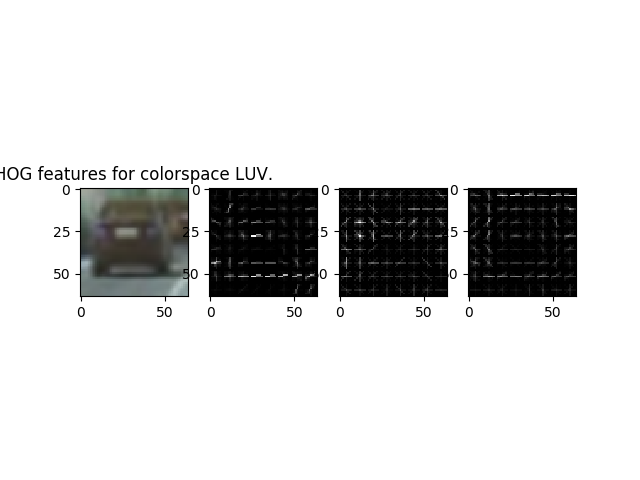
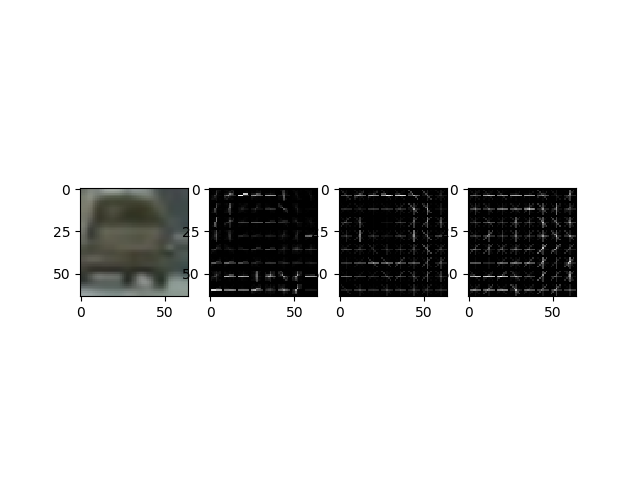
Add README.

diff --git a/pipeline.py b/pipeline.py
@@ -9,8 +9,8 @@ from train import extract_features
 from moviepy.editor import VideoFileClip
 from scipy.ndimage.measurements import label
 
-HIT_BUFFER_LENGTH = 25
-MIN_HITS = 20
+HIT_BUFFER_LENGTH = 20
+MIN_HITS = 15
 CONFIDENCE_THRESHOLD = 0.80
 
 def slide_window(img, width, height, x_overlap = 0.5, y_overlap = 0.5):
@@ -33,6 +33,7 @@ class Pipeline:
     def __init__(self, model):
         with open(model, 'rb') as file:
             self.classifier, self.scaler, self.colorspace = pickle.load(file)
+        self.frame_counter = 0
 
     def predict(self, image):
         resized = cv2.resize(image, train.TRAINING_IMAGE_SIZE)
@@ -41,7 +42,7 @@ class Pipeline:
 
         return self.classifier.predict_proba(features)[0][1]
 
-    def process_image(self, image, visualize=False, ):
+    def process_image(self, image, visualize=False):
         # Only search bottom half of image
         img = image[image.shape[0]//2:,image.shape[1]//2:,...]
 
@@ -66,8 +67,12 @@ class Pipeline:
 
         return hits, image
 
-    # Implement heat map meathod from the lectures.
+    # Implement heat map method from the lectures.
     def draw_bounding_boxes(self, image):
+
+        if self.frame_counter >= 1000 and self.frame_counter <= 1005:
+            cv2.imwrite('./output_images/original{}.jpg'.format(self.frame_counter), cv2.cvtColor(image, cv2.COLOR_BGR2RGB))
+
         heatmap = np.zeros_like(image[:,:,0])
 
         for frame in self.hit_buffer:
@@ -75,6 +80,9 @@ class Pipeline:
                 heatmap[hit[0][1]:hit[1][1], hit[0][0]:hit[1][0]] += 1
 
         heatmap[heatmap < MIN_HITS] = 0
+
+        if self.frame_counter >= 1000 and self.frame_counter <= 1005:
+            cv2.imwrite('./output_images/heatmap{}.jpg'.format(self.frame_counter), heatmap)
 
         labeled, num_labels = label(heatmap)
         windows = []
@@ -90,6 +98,9 @@ class Pipeline:
 
             image = cv2.rectangle(image, top_left, bottom_right, (0, 0, 255), 6)
 
+        if self.frame_counter >= 1000 and self.frame_counter <= 1005:
+            cv2.imwrite('./output_images/final{}.jpg'.format(self.frame_counter), cv2.cvtColor(image, cv2.COLOR_BGR2RGB))
+
         return image
 
     def process_video_image(self, image):
@@ -100,6 +111,8 @@ class Pipeline:
         self.hit_buffer.append(hits)
         if len(self.hit_buffer) > HIT_BUFFER_LENGTH:
             self.hit_buffer.pop(0)
+
+        self.frame_counter += 1
 
         return self.draw_bounding_boxes(image)
 
@@ -123,7 +136,7 @@ def main():
         i = 0
         for file in glob.glob('./test_images/*.jpg'):
             img = cv2.imread(file)
-            _, img = p.process_image(img, True)
+            hits, img = p.process_image(img, True)
             cv2.imwrite('./output_images/detections{}.jpg'.format(i), img)
             i += 1
 

diff --git a/train.py b/train.py
@@ -16,9 +16,6 @@ HOG_CELL_SIZE = (8, 8)
 HOG_CELLS_PER_BLOCK = (2, 2)
 HOG_ANGLE_BINS = 12
 
-# Color histogram parameters.
-COLOR_BINS = 32
-
 def get_colorspace(str):
     if str == 'RGB':
         return cv2.COLOR_BGR2RGB
@@ -70,9 +67,8 @@ def load_dataset(positive_dirs, negative_dirs):
     labels = np.hstack((np.ones(len(positives)), np.zeros(len(negatives))))
     return images, labels
 
-def visualize_hog(original, hog_image, colorspace):
+def visualize_hog(original, hog_image):
     fig = plt.figure()
-    plt.title('HOG features for colorspace {}.'.format(colorspace))
     plt.subplot(1, 4, 1)
     plt.imshow(original, cmap='gray')
 
@@ -115,7 +111,7 @@ def extract_features(X, colorspace, flatten=False, visualize=False):
             images.append(hog_images)
 
     if (visualize):
-        visualize_hog(X[0], images[0], colorspace)
+        visualize_hog(X[0], images[0])
 
     return np.array(data)
 
@@ -137,7 +133,7 @@ def main():
     parser = argparse.ArgumentParser(description='Train classifier')
     parser.add_argument('-p', '--posisitve-dirs', nargs='+', default=[], help='Directory(s) containing positive (vehicle) training images.')
     parser.add_argument('-n', '--negative-dirs', nargs='+', default=[], help='Directory(s) containing negative (non-vehicle) training images.')
-    parser.add_argument('-c', '--colorspace', default='LUV', help='Colorspace to use for features. Can be RGB, LUV, HLS, YUV, or YCrCb.')
+    parser.add_argument('-c', '--colorspace', default='YUV', help='Colorspace to use for features. Can be RGB, LUV, HLS, YUV, or YCrCb.')
     parser.add_argument('-v', '--visualize', action='store_true', help='Visualize hog features.')
     args = parser.parse_args()
 

diff --git a/README.md b/README.md
@@ -1,37 +1,90 @@
-# Vehicle Detection
-[![Udacity - Self-Driving Car NanoDegree](https://s3.amazonaws.com/udacity-sdc/github/shield-carnd.svg)](http://www.udacity.com/drive)
 
 
-In this project, your goal is to write a software pipeline to detect vehicles in a video (start with the test_video.mp4 and later implement on full project_video.mp4), but the main output or product we want you to create is a detailed writeup of the project.  Check out the [writeup template](https://github.com/udacity/CarND-Vehicle-Detection/blob/master/writeup_template.md) for this project and use it as a starting point for creating your own writeup.  
+**Vehicle Detection Project**
 
-Creating a great writeup:
+[//]: # (Image References)
+[image1]: ./output_images/hog.png
+[image2]: ./output_images/detections3.jpg
+[image3]: ./output_video.gif
+[image4]: ./output_images/detection5.jpg
+
+[image5]: ./output_images/original1000.jpg
+[image6]: ./output_images/heatmap1000.jpg
+[image6]: ./output_images/final1000.jpg
+
 ---
-A great writeup should include the rubric points as well as your description of how you addressed each point.  You should include a detailed description of the code used in each step (with line-number references and code snippets where necessary), and links to other supporting documents or external references.  You should include images in your writeup to demonstrate how your code works with examples.  
+### Writeup / README
 
-All that said, please be concise!  We're not looking for you to write a book here, just a brief description of how you passed each rubric point, and references to the relevant code :). 
+### Histogram of Oriented Gradients (HOG)
 
-You can submit your writeup in markdown or use another method and submit a pdf instead.
+#### 1. Explain how (and identify where in your code) you extracted HOG features from the training images.
 
-The Project
+The code for hog feature extraction is located in the extract_features function in train.py. I used the YUV color space after experiemnting with a few color spaces. At first I also used color histogram features, but eventually dropped them while trying to reduce false positves. They didn't seem to make a huge difference to classifier accuracy.
+
+Example YUV HOG features:
+![alt text][image1]
+
+
+#### 2. Explain how you settled on your final choice of HOG parameters.
+
+I used classifier accuracy as the metric for my choice of model parameters. The final accuracy of the linear SVM is around 98%. At first I was using a kernel svm, but inference was very slow, so I switched to a linear svm. With parameter tweaking I was able to acheive the around same accuracy.
+
+#### 3. Describe how (and identify where in your code) you trained a classifier using your selected HOG features (and color features if you used them).
+
+The train.py file implements loading the dataset and training the svm. I augment the negative training examples using code from the traffic sign classification project, and end up with twice as many non-car examples. My goal is to try to reduce the false positive rate by biasing towards negative predictions.
+
+### Sliding Window Search
+
+#### 1. Describe how (and identify where in your code) you implemented a sliding window search.  How did you decide what scales to search and how much to overlap windows?
+
+The generation of sliding windows is implemented by slide_window() in pipeline.py. The sizes/scales used are in process_image() in the same file. I spent a lot of time playing with different windows, the two biggest problems were false positives and slow runtime. I found that sticking to larger windows of the same aspect ratio as the training examples worked best.
+
+#### 2. Show some examples of test images to demonstrate how your pipeline is working.  What did you do to optimize the performance of your classifier?
+
+The main thing I did to improve performance was to reject predictions with low confidence, generally anything below 0.8 or 0.9 probability of being a car. Along with not using small windows, this got rid of most false positives. Here are a few examples of bounding boxes without clustering:
+
+![alt text][image2]
+
+Good detections.
+
+![alt text][image4]
+
+Example with a false positive.
+
+
 ---
 
-The goals / steps of this project are the following:
+### Video Implementation
 
-* Perform a Histogram of Oriented Gradients (HOG) feature extraction on a labeled training set of images and train a classifier Linear SVM classifier
-* Optionally, you can also apply a color transform and append binned color features, as well as histograms of color, to your HOG feature vector. 
-* Note: for those first two steps don't forget to normalize your features and randomize a selection for training and testing.
-* Implement a sliding-window technique and use your trained classifier to search for vehicles in images.
-* Run your pipeline on a video stream (start with the test_video.mp4 and later implement on full project_video.mp4) and create a heat map of recurring detections frame by frame to reject outliers and follow detected vehicles.
-* Estimate a bounding box for vehicles detected.
+#### 1. Provide a link to your final video output.  Your pipeline should perform reasonably well on the entire project video (somewhat wobbly or unstable bounding boxes are ok as long as you are identifying the vehicles most of the time with minimal false positives.)
 
-Here are links to the labeled data for [vehicle](https://s3.amazonaws.com/udacity-sdc/Vehicle_Tracking/vehicles.zip) and [non-vehicle](https://s3.amazonaws.com/udacity-sdc/Vehicle_Tracking/non-vehicles.zip) examples to train your classifier.  These example images come from a combination of the [GTI vehicle image database](http://www.gti.ssr.upm.es/data/Vehicle_database.html), the [KITTI vision benchmark suite](http://www.cvlibs.net/datasets/kitti/), and examples extracted from the project video itself.   You are welcome and encouraged to take advantage of the recently released [Udacity labeled dataset](https://github.com/udacity/self-driving-car/tree/master/annotations) to augment your training data.  
+Here's a [link to my video result](./output_video.mp4) (not available on github).
 
-Some example images for testing your pipeline on single frames are located in the `test_images` folder.  To help the reviewer examine your work, please save examples of the output from each stage of your pipeline in the folder called `ouput_images`, and include them in your writeup for the project by describing what each image shows.    The video called `project_video.mp4` is the video your pipeline should work well on.  
+Here is a gif for the github readme:
 
-**As an optional challenge** Once you have a working pipeline for vehicle detection, add in your lane-finding algorithm from the last project to do simultaneous lane-finding and vehicle detection!
+![alt text][image3]
 
-**If you're feeling ambitious** (also totally optional though), don't stop there!  We encourage you to go out and take video of your own, and show us how you would implement this project on a new video!
+#### 2. Describe how (and identify where in your code) you implemented some kind of filter for false positives and some method for combining overlapping bounding boxes.
 
-## How to write a README
-A well written README file can enhance your project and portfolio.  Develop your abilities to create professional README files by completing [this free course](https://www.udacity.com/course/writing-readmes--ud777).
+I used the heatmap method from the lectures. Initially I tried to use the groupRectangles() function from opencv, but the results were not as nice. The main issue is that my sliding windows were too small to fully enclose the cars. It also tended to cluster rectangles from two close-by cars together, and output a rectangle halfway between the two. The heatmap method seems to segment them better. It also "smears" small detection windows across the whole car, so you tend to get a large enough bounding box even if your windows are smaller than the car.
+
+I keep about 20 frames of history, and threshold out areas that were in less than 15 detections. This seems to reduce the wobbliness of the windows.
+
+Here is a frame, the heatmap accumulated in the last 20 frames, and the final output.
+
+![alt text][image5]
+
+![alt text][image6]
+
+![alt text][image7]
+
+---
+
+### Discussion
+
+#### 1. Briefly discuss any problems / issues you faced in your implementation of this project.  Where will your pipeline likely fail?  What could you do to make it more robust?
+
+Currently the pipeline fails briefly for the white car, when the background around it is very pale, and when it gets far away. The first case could probably be fixed by improving the classifier. The second case can be improved by adding smaller detection windows. This blows up the runtime and also tends to add more false positives.
+
+The pipeline is slow, at about 0.5 frames per second. This could be improved by precomputing HOG features for the whole image. When I profiled my code though, most of the time was spent running inference on all of the sliding windows. I might investigate parralelizing this. Another idea would be to use some more recent approaches like SSD or YOLO, that regress a fixed number of bounding boxes in one forward pass of a neural net. This probably gets parralelized really well on a GPU.
 
